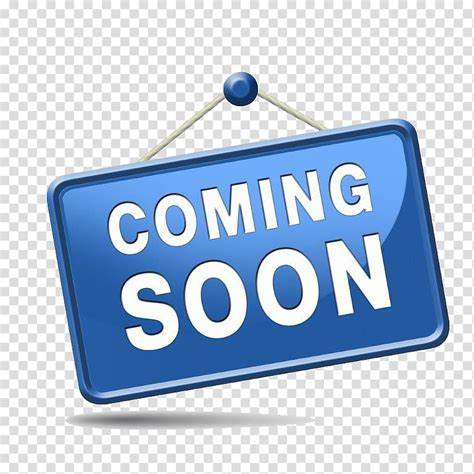
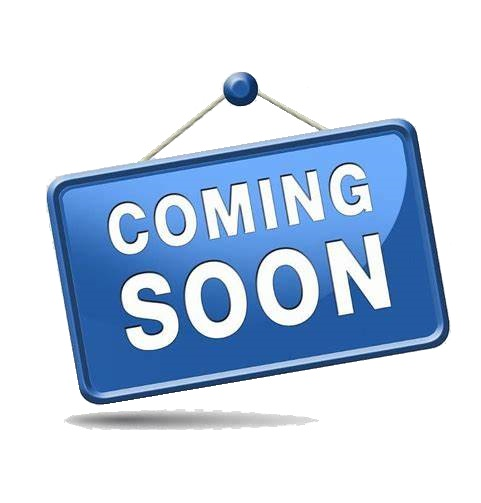
Portfolio Cards Styles
Added 3 cards and manipulated them with media queries to act responsively.
Added image for the poster.
Text for date added
Screen shot -currently is a 'coming Soon ' image

diff --git a/styles/styles.css b/styles/styles.css
@@ -104,6 +104,184 @@ a:hover::after {
 
 /* =============================== EOF Hero image */
 
+/* Start of the portolio cards   */
+.latest-news{
+  display: flex;
+  flex-wrap: wrap;
+  justify-content: center;
+}
+.article {  /* ========================== card */
+  color: black;
+  min-height: 60vh;
+  max-height: 85vh;
+  max-width:600px;
+  transform: translateY(5px);
+  transition: transform 0.8s ease;
+  margin: 10px;
+  border:1px solid gray;
+  border-radius: 4px;
+}
+.article:hover{
+  cursor: pointer;
+  transform: translateY(-5px);
+  transition: transform 0.8s ease;
+}
+.partial-line{
+  border-top: 1px solid rgb(175, 173, 173);
+  align-self: center;
+  min-width:400px;
+ }
+ /* style the buttons in each card */
+ .btn-1{
+  color: white;
+  background-color:#2DCC71;
+  border-radius: 3px;
+  padding:10px;
+  border: none;
+  text-decoration: none;
+  margin-top: -10px;
+  margin-bottom: 10px;
+}
+.btn-2{
+  color: white;
+  background-color: #2DCC71;
+  border-radius: 3px;
+  padding:10px;
+  border: none;
+  text-decoration: none;
+  margin-top: -10px;
+  margin-bottom: 10px;
+}
+.btn-3{
+  color: white;
+  background-color: rgb(150, 109, 150);
+  border-radius: 3px;
+  padding:10px;
+  border: none;
+  text-decoration: none;
+  margin-top: -10px;
+  margin-bottom: 10px;
+}
+@media (max-width:759px){
+  .latest-news{
+    display: flex;
+    flex-direction: column;
+   
+  }
+  .article-1{
+    padding-top: 320px;
+  }
+  .article-2{
+    padding-top: 320px;
+  }
+  .article-3{
+    padding-top: 320px;
+  }
+ }
+ 
+ @media (min-width:760px){
+  .latest-news{
+    display:flex;
+    flex-wrap: wrap;
+    align-items: center;
+    justify-content: space-around;
+  }
+  .article{
+    width: 330px;
+  }
+  .news3{
+    display: none;
+  }
+  .partial-line{
+    min-width: 260px;
+  }
+  .article-1{
+    padding-top: 200px;
+  }
+  .article-2{
+    padding-top: 200px;
+  }
+  .article-3{
+    padding-top: 200px;
+  }
+ }
+ @media (min-width:990px) {
+    
+  .article{
+  width: 440px
+  }
+  .news3{
+    display: none;
+  }
+  .partial-line{
+    min-width: 380px;
+  }
+  .article-1{
+    padding-top: 240px;
+  }
+  .article-2{
+    padding-top: 240px;
+  }
+  .article-3{
+    padding-top: 240px;
+  }
+}
+@media(min-width:1275px){
+  .article{
+    width: 380px
+    }
+    .news3{
+      display: block;
+    }
+    .partial-line{
+      min-width: 340px;
+    }
+    .article-1{
+      padding-top: 220px;
+    }
+    .article-2{
+      padding-top: 220px;
+    }
+    .article-3{
+      padding-top: 220px;
+    }
+  }
+  .card-title{
+    display: flex;
+    flex-direction: column;
+    align-items: flex-start;
+    margin-left: 25px; 
+  }
+  .article-1{
+    background-image:  url(../img/coming-soon.jpeg);
+    background-size: 100% auto; 
+    background-repeat: no-repeat;
+  }
+
+  .article-2{
+    background-image: url(../img/coming-soon.jpeg);
+    background-size: 100% auto; 
+    background-repeat: no-repeat;
+   }
+
+   .article-3{
+    background-image: url(../img/coming-soon.jpeg);
+    background-size: 100% auto; 
+    background-repeat: no-repeat;
+   }
+     /* .journalist image with before */
+ .outer-container{
+  display: flex;
+  justify-content: space-between;
+ }
+  .inner-container{
+    display: flex;
+    flex-direction: column;
+    margin-left: 50px;
+}
+
+/* End of the portolio cards   */
+
 .my-projects {
   display: flex;
   flex-direction: column;

diff --git a/index.html b/index.html
@@ -63,7 +63,7 @@
   </div>
   
 
-  <div id="portfolio">
+  <!-- <div id="portfolio">
     <ul class="my-projects">
       <li class="project portfolio-image"></li>
       <li class="project portfolio-image"></li >
@@ -73,8 +73,68 @@
       <li class="project portfolio-image"></li >
       
     </ul>
-  </div>
+  </div> -->
 
+  <section class="latest-news">
+
+    <div class="article news1">  
+      <div class="article-1" >
+         <div class="card-title">
+            <h2>Clone Website</h2>
+            
+            <a class="btn-1" href="#">Read More</a>
+            <div class="partial-line"></div>
+            <br>
+              <div class="outer-container">   
+                <img src="img/author.png" width="45" height="45"></img> 
+                  <div class="inner-container">
+                    <div>Posted By Anon.</div>
+                    <div>29th June 2023</div>
+                  </div>
+              </div>
+        </div>
+      </div>
+    </div>
+  
+    <div class="article news2">  
+      <div class="article-2">
+        <div class="card-title">
+          <h2>Project 2</h2>
+          
+          <a class="btn-2" href="#">Read More</a>
+          <div class="partial-line"></div>
+          <br>
+              <div class="outer-container">   
+                <img src="img/author.png" width="45" height="45"></img> 
+                  <div class="inner-container">
+                    <div>Posted By Anon.</div>
+                    <div>28th June 2023</div>
+                  </div>
+              </div>
+          </div>
+      </div>
+    </div>
+      
+    <div class="article news3">  
+      <div class="article-3">
+        <div class="card-title">
+          <h2>Project 3</h2>
+          
+          <a class="btn-3" href="#">Read More</a>
+          <div class="partial-line"></div>
+          <br>
+              <div class="outer-container">   
+                <img src="img/author.png" width="45" height="45"></img> 
+                  <div class="inner-container">
+                    <div>Posted By Anon.</div>
+                    <div>27th June 2023</div>
+                  </div>
+              </div>
+        </div>
+      </div>
+    </div>
+  
+  </section>
 
 
 
